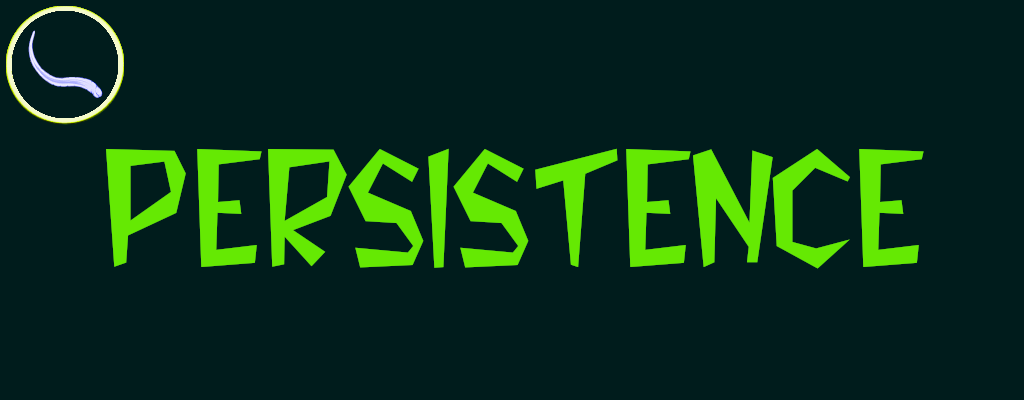
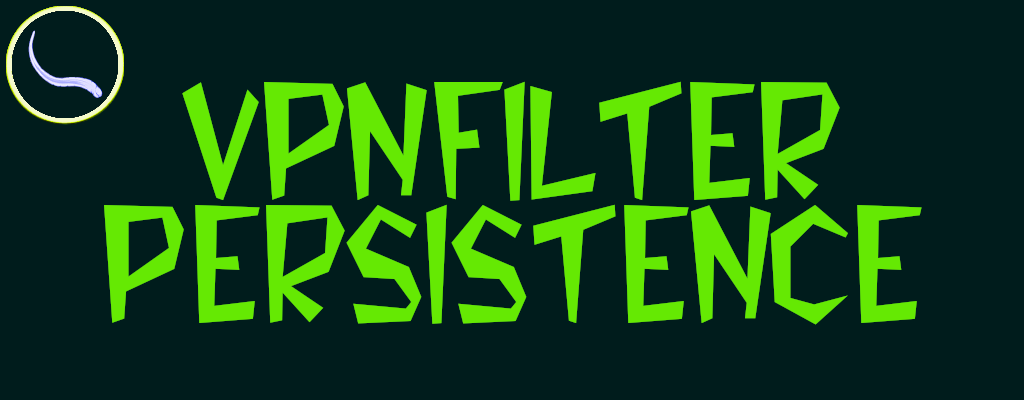
aggiornamento

Changed region(s): [[0.0938, 0.18, 0.9062, 0.81]]

diff --git a/persi.html b/persi.html
@@ -14,7 +14,7 @@
 <meta name="twitter:image" content="https://spaghetti-hacker.github.io/persi.png">
 
 
-<title>SOCK PRINTF</title>
+<title>VPNFILTER PERSISTENCE</title>
 <link rel="icon" type="image/png" href="favicon.png">
 <link rel="stylesheet" href="hcf2.css">
 </head>
@@ -70,7 +70,7 @@ NO_ELF ~ HCF
 ================================================================
 -->
 <script id="content" type="text/plain">
-PERSISTENCE ~ HCF
+VPNFILTER PERSISTENCE ~ HCF
 
 <a href="https://spaghetti-hacker.github.io/">index.html</a>
 